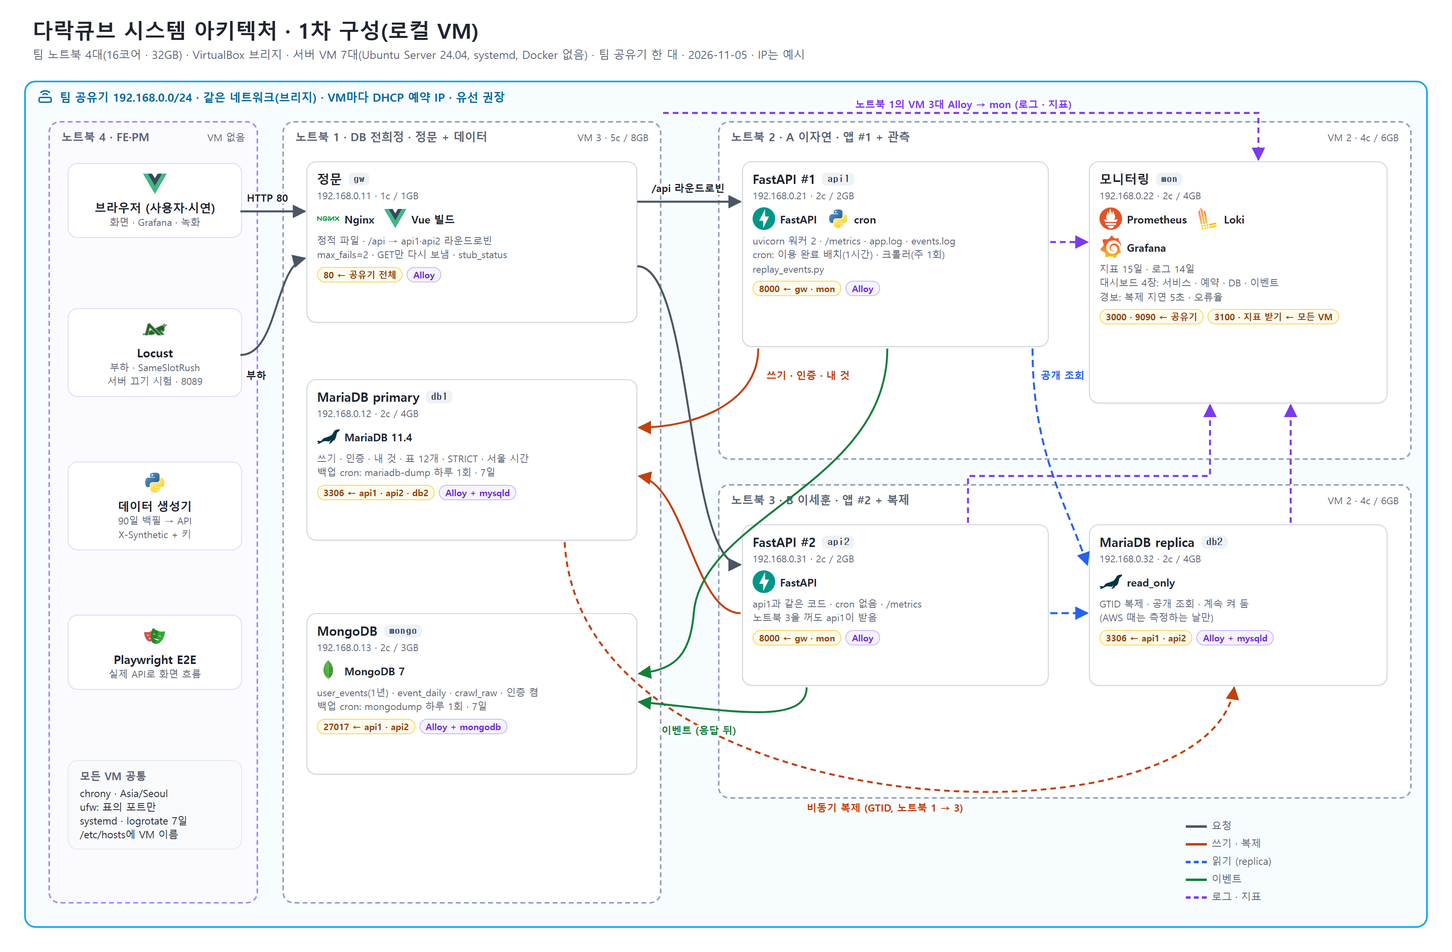
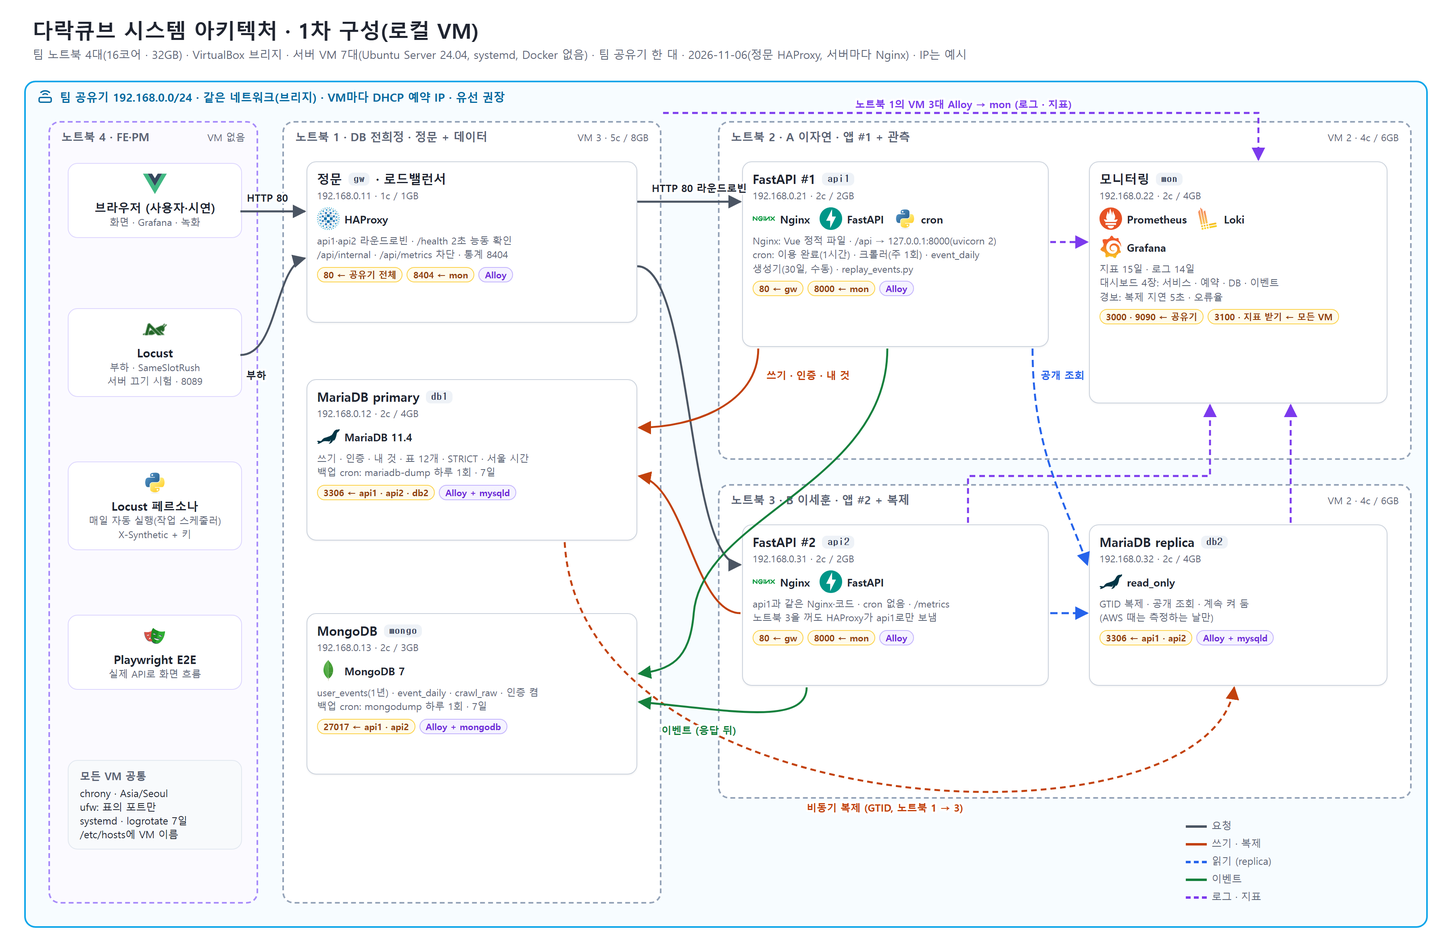
[공동] 정문 구성 B안 확정: 사용자 → HAProxy → 서버마다 Nginx → FastAPI
- STATE 결정 기록: 정문 HAProxy(/health 2초 능동 확인, 내부 경로 차단, 통계 8404), 서버마다 Nginx(정적 파일 + /api → 127.0.0.1:8000)
- 로컬_VM_구성: gw·api1·api2 배치, 방화벽(api 80 ← gw, 8000 ← mon), 4-1절 흐름
- infra/vm 체크리스트: gw HAProxy, api1·api2 Nginx
- 산출물 02·인프라 검토: 정문 설명과 11-06 결정 안내
- AGENTS·STRUCTURE: infra/haproxy/ (B)
- 그림: 아키텍처(정문 HAProxy, 서버마다 Nginx), 비교도 haproxy_compare(draw.io 원본), HAProxy 로고(devicon 2.18.0, MIT)

diff --git a/docs/figures/src/architecture.html b/docs/figures/src/architecture.html
@@ -47,7 +47,7 @@
 </head>
 <body>
   <div class="title">다락큐브 시스템 아키텍처 · 1차 구성(로컬 VM)</div>
-  <div class="sub">팀 노트북 4대(16코어 · 32GB) · VirtualBox 브리지 · 서버 VM 7대(Ubuntu Server 24.04, systemd, Docker 없음) · 팀 공유기 한 대 · 2026-11-05 · IP는 예시</div>
+  <div class="sub">팀 노트북 4대(16코어 · 32GB) · VirtualBox 브리지 · 서버 VM 7대(Ubuntu Server 24.04, systemd, Docker 없음) · 팀 공유기 한 대 · 2026-11-06(정문 HAProxy, 서버마다 Nginx) · IP는 예시</div>
 
   <div class="box router"><div class="box-label">
     <svg viewBox="0 0 24 24" fill="none" stroke="#0369a1" stroke-width="2" aria-hidden="true"><rect x="3" y="13" width="18" height="7" rx="2"/><path d="M7 17h.01M11 17h.01M8 9a6 6 0 0 1 8 0M5 6a10 10 0 0 1 14 0"/></svg>
@@ -57,7 +57,7 @@
   <div class="box lap client" style="left:60px; top:150px; width:260px; height:970px"><div class="box-label">노트북 4 · FE·PM</div><div class="spec">VM 없음</div>
     <div class="tool" style="top:50px"><img src="../../architecture/icons/vuejs.svg" alt=""><b>브라우저 (사용자·시연)</b><span>화면 · Grafana · 녹화</span></div>
     <div class="tool" style="top:230px"><img src="../../architecture/icons/locust.png" alt=""><b>Locust</b><span>부하 · SameSlotRush<br>서버 끄기 시험 · 8089</span></div>
-    <div class="tool" style="top:420px"><img src="../../architecture/icons/python.svg" alt=""><b>데이터 생성기</b><span>90일 백필 → API<br>X-Synthetic + 키</span></div>
+    <div class="tool" style="top:420px"><img src="../../architecture/icons/python.svg" alt=""><b>Locust 페르소나</b><span>매일 자동 실행(작업 스케줄러)<br>X-Synthetic + 키</span></div>
     <div class="tool" style="top:610px"><img src="../../architecture/icons/playwright.svg" alt=""><b>Playwright E2E</b><span>실제 API로 화면 흐름</span></div>
     <div class="panel" style="left:22px; top:790px; width:216px"><h4>모든 VM 공통</h4>chrony · Asia/Seoul<br>ufw: 표의 포트만<br>systemd · logrotate 7일<br>/etc/hosts에 VM 이름</div>
   </div>
@@ -65,10 +65,10 @@
   <!-- 노트북 1 -->
   <div class="box lap" style="left:350px; top:150px; width:470px; height:970px"><div class="box-label">노트북 1 · DB 전희정 · 정문 + 데이터</div><div class="spec">VM 3 · 5c / 8GB</div></div>
   <div class="vm" style="left:380px; top:200px; width:410px; height:200px">
-    <div class="hd">정문 <code>gw</code></div><div class="ip">192.168.0.11 · 1c / 1GB</div>
-    <div class="icons"><div><img src="../../architecture/icons/nginx.svg" alt="">Nginx</div><div><img src="../../architecture/icons/vuejs.svg" alt="">Vue 빌드</div></div>
-    <p>정적 파일 · /api → api1·api2 라운드로빈<br>max_fails=2 · GET만 다시 보냄 · stub_status</p>
-    <div class="chips"><span class="chip fw">80 ← 공유기 전체</span><span class="chip al">Alloy</span></div>
+    <div class="hd">정문 <code>gw</code> · 로드밸런서</div><div class="ip">192.168.0.11 · 1c / 1GB</div>
+    <div class="icons"><div><img src="../../architecture/icons/haproxy.svg" alt="">HAProxy</div></div>
+    <p>api1·api2 라운드로빈 · /health 2초 능동 확인<br>/api/internal · /api/metrics 차단 · 통계 8404</p>
+    <div class="chips"><span class="chip fw">80 ← 공유기 전체</span><span class="chip fw">8404 ← mon</span><span class="chip al">Alloy</span></div>
   </div>
   <div class="vm" style="left:380px; top:470px; width:410px; height:200px">
     <div class="hd">MariaDB primary <code>db1</code></div><div class="ip">192.168.0.12 · 2c / 4GB</div>
@@ -87,9 +87,9 @@
   <div class="box lap" style="left:890px; top:150px; width:860px; height:420px"><div class="box-label">노트북 2 · A 이자연 · 앱 #1 + 관측</div><div class="spec">VM 2 · 4c / 6GB</div></div>
   <div class="vm" style="left:920px; top:200px; width:380px; height:230px">
     <div class="hd">FastAPI #1 <code>api1</code></div><div class="ip">192.168.0.21 · 2c / 2GB</div>
-    <div class="icons"><div><img src="../../architecture/icons/fastapi.svg" alt="">FastAPI</div><div><img src="../../architecture/icons/python.svg" alt="">cron</div></div>
-    <p>uvicorn 워커 2 · /metrics · app.log · events.log<br>cron: 이용 완료 배치(1시간) · 크롤러(주 1회)<br>replay_events.py</p>
-    <div class="chips"><span class="chip fw">8000 ← gw · mon</span><span class="chip al">Alloy</span></div>
+    <div class="icons"><div><img src="../../architecture/icons/nginx.svg" alt="">Nginx</div><div><img src="../../architecture/icons/fastapi.svg" alt="">FastAPI</div><div><img src="../../architecture/icons/python.svg" alt="">cron</div></div>
+    <p>Nginx: Vue 정적 파일 · /api → 127.0.0.1:8000(uvicorn 2)<br>cron: 이용 완료(1시간) · 크롤러(주 1회) · event_daily<br>생성기(30일, 수동) · replay_events.py</p>
+    <div class="chips"><span class="chip fw">80 ← gw</span><span class="chip fw">8000 ← mon</span><span class="chip al">Alloy</span></div>
   </div>
   <div class="vm" style="left:1350px; top:200px; width:370px; height:300px">
     <div class="hd">모니터링 <code>mon</code></div><div class="ip">192.168.0.22 · 2c / 4GB</div>
@@ -103,9 +103,9 @@
   <div class="box lap" style="left:890px; top:600px; width:860px; height:390px"><div class="box-label">노트북 3 · B 이세훈 · 앱 #2 + 복제</div><div class="spec">VM 2 · 4c / 6GB</div></div>
   <div class="vm" style="left:920px; top:650px; width:380px; height:200px">
     <div class="hd">FastAPI #2 <code>api2</code></div><div class="ip">192.168.0.31 · 2c / 2GB</div>
-    <div class="icons"><div><img src="../../architecture/icons/fastapi.svg" alt="">FastAPI</div></div>
-    <p>api1과 같은 코드 · cron 없음 · /metrics<br>노트북 3을 꺼도 api1이 받음</p>
-    <div class="chips"><span class="chip fw">8000 ← gw · mon</span><span class="chip al">Alloy</span></div>
+    <div class="icons"><div><img src="../../architecture/icons/nginx.svg" alt="">Nginx</div><div><img src="../../architecture/icons/fastapi.svg" alt="">FastAPI</div></div>
+    <p>api1과 같은 Nginx·코드 · cron 없음 · /metrics<br>노트북 3을 꺼도 HAProxy가 api1로만 보냄</p>
+    <div class="chips"><span class="chip fw">80 ← gw</span><span class="chip fw">8000 ← mon</span><span class="chip al">Alloy</span></div>
   </div>
   <div class="vm" style="left:1350px; top:650px; width:370px; height:200px">
     <div class="hd">MariaDB replica <code>db2</code></div><div class="ip">192.168.0.32 · 2c / 4GB</div>
@@ -148,7 +148,7 @@
     </g>
     <text class="lbl" x="306" y="250">HTTP 80</text>
     <text class="lbl" x="305" y="470">부하</text>
-    <text class="lbl" x="808" y="238">/api 라운드로빈</text>
+    <text class="lbl" x="808" y="238">HTTP 80 라운드로빈</text>
     <text class="lbl" x="950" y="470" style="fill:#c2410c">쓰기 · 인증 · 내 것</text>
     <text class="lbl" x="1290" y="470" style="fill:#2563eb">공개 조회</text>
     <text class="lbl" x="1000" y="1006" style="fill:#c2410c">비동기 복제 (GTID, 노트북 1 → 3)</text>

diff --git a/STATE.md b/STATE.md
@@ -57,6 +57,7 @@
 | 11-05 | 로그아웃: 프론트가 헤더 사용자 메뉴·내 메뉴에서 토큰을 지우고, 서버 `POST /auth/logout`(유효 토큰 확인 → 204)도 둠(11-03 "로그아웃 API 없음"을 바꿈). 토큰 폐기 목록은 없음 | PM 결정 · #32·#33·#34, `산출물_01` F-02 |
 | 11-05 | 1차 수집원은 스페이스클라우드·쉐어잇 2곳. 속성 기반 시연용 공간 15~20개를 목표로 선별하되, 30개 목표에서 최종 검토 후 부족한 공간은 생성기(`source_site=synthetic`)로 `/internal/venues`에 등록. 과거 사용자 행동 데이터는 우선 30일분 생성하고 `is_synthetic`으로 실제 로그와 분리. 루북·스파크플러스는 1차 제외, 사진안은 미확정 | 사용자 결정 · `docs/데이터_수집_명세.md` |
 | 11-05 | 데이터 작업 경계(#38): ① 생성기의 예약·칸·결제는 B 저장 로직 재사용(한 트랜잭션, 백필 경로에만 과거 시각), 회원·후기는 생성기가 SQL로 넣되 비밀번호는 A bcrypt 함수 ② 생성기·크롤러는 api1에서 실행, A가 키·접속 정보·cron 설치, 노트북 4는 API·화면·부하 시험 ③ 과거 이벤트는 MongoDB 직접 적재·분석은 `event_daily`, Loki는 실제 로그, 직접 적재분은 API 전달 성공률에서 제외 ④ F-62(A)와 #19 생성기(DB)는 따로 관리 ⑤ 속성 기반 15~20개 + 생성으로 총 30개, 주간 수집은 보충·0건 허용 ⑥ 과거 30일·회원 풀 1,000명(100명 먼저 검증, 11-07 확정). 미정: `/internal/venues` 제공 시각(B), 쉐어잇 표본 위치(DB), 탈퇴·동시 예약 처리(A·B), Grafana의 MongoDB 연결(A·DB) | PM 결정 · 이슈 #38 |
+| 11-06 | **정문 구성 B안**: 사용자 → `gw` HAProxy(:80, api1·api2 라운드로빈, `/health` 2초 능동 확인, `/api/internal`·`/api/metrics` 차단, 통계 8404) → 서버마다 Nginx(:80, Vue 정적 파일 + `/api` → `127.0.0.1:8000`) → FastAPI. A안(Nginx 뒤 HAProxy)은 프록시가 두 겹이고 `gw`에 몰려 확장이 막혀 뺌. `gw` 단일 장애점은 발표 범위에서 허용(실서비스는 HAProxy 2대 + keepalived) | PM 결정 · `docs/figures/haproxy_compare.png`, `로컬_VM_구성.md` |
 | 10-30 | 스터디룸 → 공간대여로 확장, 유형 5개(스터디룸·스튜디오·카페·영화관·파티룸, 11-03에 영화관 → 강의실), 전국 | 회의 · `docs/공간대여_01` |
 | 10-30 | 결제는 '확정 = 결제 완료'인 모의 결제 | 회의 |
 | 10-30 | 예약은 1시간 칸, 중복은 `reservation_slots` 기본키로 DB가 차단 | `docs/공간대여_02` |
@@ -167,6 +168,7 @@ A1~A4는 11-03에 확정했고, **A5~A8은 추후 확정**으로 미뤘다(11-03
 
 ## 최근 변경 (최신이 위)
 
+- 11-06 · 공동 · 정문 구성 B안 확정(HAProxy 정문 → 서버마다 Nginx → FastAPI): 결정 기록, `로컬_VM_구성`(배치·방화벽·흐름), `infra/vm` 체크리스트, 산출물 02·인프라 검토 안내, 아키텍처 그림(HAProxy 로고 devicon 2.18.0), 비교 그림 `haproxy_compare`(draw.io 원본) 반영. `infra/haproxy`·`infra/nginx` 설정은 B, 설치는 노트북 주인
 - 11-05 · B · #43 PM 제안 및 B 동의에 따라 최신 develop(87de174, #41·#42 병합)에서 feat/B-F-51-review-context 생성·기준 커밋 확인 후 구현. review_context_query(*, active_only=True)가 예약·공간·유형을 조인한 4열 Select를 반환하며 예약 상태·후기 작성 자격은 거르지 않음. 기본값은 비활성 공간 제외, False는 포함. A 코드·main.py·DDL·API·이벤트 변경 없이 루트 약속·A/B 명세 3절·리포지토리/테스트 안내·구조에 계약 반영. pro_1·격리된 loopback MariaDB 11.4.13의 spacecube_test(0001·seed)에서 계약 14건 추가 포함 예약 의존성 43건·전체 pytest 303건 통과. verify.ps1 구성요소를 설치된 Miniforge pro_1·Node 경로로 실행해 Ruff 린트/포맷 및 프론트 린트·색 검사·단위 55건·빌드 통과. Starlette 사용 중단 예정·pytest 캐시 경로 권한·기존 FE 조건문 경고 각 1건. 테스트 데이터 6개 표 모두 0건 확인, 임시 DB 종료·정리. 후기 목록 HTTP·실제 replica·E2E·DDL 전용 검증은 이번에 실행하지 않았으며 A 직접 import 연결 후 통합 검증 예정. 커밋·푸시·PR은 아직 하지 않음.
 
 - 11-05 · B · 사용자 승인에 따라 feat/FastAPI-B-internal-venues로 이름을 맞추고 원격 푸시, develop 대상 PR #42 생성. 본문에 Refs #38·#10·#19와 구현 범위·검증 결과·api1 후속 배포를 명시하고 A 담당 naturedevworks에게 리뷰 요청. 관련 이슈의 나머지 작업은 열어 두며 예약 후속 기능은 보류. 코드 변경 없이 진행 기록만 갱신, PR CI 결과 확인 대기.

diff --git a/docs/로컬_VM_구성.md b/docs/로컬_VM_구성.md
@@ -19,12 +19,12 @@
 
 | 노트북 (주인) | VM | vCPU / 메모리 / 디스크 | 올리는 것 | 열 포트 ← 받는 곳 |
 | --- | --- | --- | --- | --- |
-| **1** (DB 전희정) | `gw` 정문 | 1c / 1GB / 10GB | Nginx(Vue 빌드 정적 파일, `/api` → api1·api2 라운드로빈), `stub_status` + nginx exporter, Alloy | 80 ← 공유기 전체 |
+| **1** (DB 전희정) | `gw` 정문 | 1c / 1GB / 10GB | **HAProxy**(80 → api1·api2 라운드로빈, `/health` 2초 능동 확인, `/api/internal`·`/api/metrics` 차단, 통계·지표 8404), Alloy | 80 ← 공유기 전체, 8404 ← mon |
 | | `db1` MariaDB primary | 2c / 4GB / 20GB | MariaDB 11.4(STRICT `sql_mode`, `+09:00`, utf8mb4), 백업 cron, mysqld exporter, Alloy | 3306 ← api1·api2·db2 |
 | | `mongo` | 2c / 3GB / 20GB | MongoDB 7(인증 켬, `docs/db/mongo_init.js`), 백업 cron, mongodb exporter, Alloy | 27017 ← api1·api2 |
-| **2** (A 이자연) | `api1` FastAPI #1 | 2c / 2GB / 15GB | FastAPI(uvicorn 워커 2), cron: 이용 완료 배치(1시간)·크롤러(주 1회)·`replay_events.py`·`event_daily` 집계(매일 새벽), 데이터 생성기(과거 30일 백필, 수동 실행), `app.log`·`events.log`, `/metrics`, Alloy | 8000 ← gw·mon |
+| **2** (A 이자연) | `api1` FastAPI #1 | 2c / 2GB / 15GB | **Nginx**(80: Vue 정적 파일 + `/api` → `127.0.0.1:8000`) + FastAPI(uvicorn 워커 2), cron: 이용 완료 배치(1시간)·크롤러(주 1회)·`replay_events.py`·`event_daily` 집계(매일 새벽), 데이터 생성기(과거 30일 백필, 수동 실행), `app.log`·`events.log`, `/metrics`, nginx exporter, Alloy | 80 ← gw, 8000 ← mon(지표) |
 | | `mon` 모니터링 | 2c / 4GB / 30GB | Prometheus(15일), Loki(14일), Grafana(대시보드 4장 + 경보) | 3000·9090 ← 공유기, 3100·지표 받기 ← 모든 VM |
-| **3** (B 이세훈) | `api2` FastAPI #2 | 2c / 2GB / 15GB | api1과 같은 코드(cron 없음), `/metrics`, Alloy | 8000 ← gw·mon |
+| **3** (B 이세훈) | `api2` FastAPI #2 | 2c / 2GB / 15GB | api1과 같은 Nginx·코드(cron 없음), `/metrics`, nginx exporter, Alloy | 80 ← gw, 8000 ← mon(지표) |
 | | `db2` MariaDB replica | 2c / 4GB / 20GB | MariaDB replica(`read_only`, GTID 복제), mysqld exporter, Alloy | 3306 ← api1·api2 |
 | **4** (FE·PM 노진산) | VM 없음 | — | Locust(부하·`SameSlotRush`·서버 끄기 시험), Playwright E2E(실제 API), 발표 브라우저·녹화 | Locust 웹 8089 ← 노트북 4 안에서만 |
 
@@ -62,12 +62,23 @@
 | VM | 허용 |
 | --- | --- |
 | 전부 | 22 ← 팀 노트북 4대의 IP만, 나머지 들어오는 것 거부 |
-| `gw` | 80 ← 공유기 대역 |
-| `api1`·`api2` | 8000 ← `gw`, `mon` |
+| `gw` | 80 ← 공유기 대역, 8404 ← `mon` |
+| `api1`·`api2` | 80 ← `gw`, 8000 ← `mon`(지표만) |
 | `db1` | 3306 ← `api1`, `api2`, `db2` |
 | `db2` | 3306 ← `api1`, `api2` |
 | `mongo` | 27017 ← `api1`, `api2` |
 | `mon` | 3000·9090 ← 공유기 대역, 3100·9090 ← 모든 VM(Alloy) |
+
+## 4-1. 정문 구성 (11-06 B안)
+
+```
+브라우저 ─▶ gw: HAProxy :80 ─▶ api1: Nginx :80 ─▶ FastAPI 127.0.0.1:8000
+                            └▶ api2: Nginx :80 ─▶ FastAPI 127.0.0.1:8000
+```
+
+- HAProxy가 진입과 분산을 맡고, `GET /health`를 2초마다 확인해 2번 실패한 서버를 먼저 뺍니다(무료 Nginx는 요청이 실패해야 뺌). 결제(POST)는 다시 보내지 않습니다.
+- 서버마다 Nginx가 화면 파일과 `/api` 전달을 맡아, 서버를 늘리면 HAProxy에 한 줄 더해 확장합니다.
+- `gw` 한 대는 단일 장애점으로 남습니다(발표 범위에서 허용). 비교: [`figures/haproxy_compare.png`](figures/haproxy_compare.png), 원본 `figures/src/haproxy_compare.drawio`.
 
 ## 5. 11-05 결정과 바뀌는 점
 

diff --git a/infra/vm/README.md b/infra/vm/README.md
@@ -18,12 +18,13 @@
 - [ ] `db1`: `0001_init.sql` → `seed.sql` 적용, `db/tests/check_ddl.py`를 `CHECK_DB_URL`로 한 번 돌려 확인(`spacecube_test`)
 - [ ] `db1`: 백업 cron(하루 1회 `mariadb-dump --single-transaction`, 7개 보관)
 - [ ] `mongo`: MongoDB 7.0, 인증 켬, WiredTiger 캐시 1GB, `docs/db/mongo_init.js`, `db/tests/check_mongo_init.js`, 백업 cron(`mongodump`, 7개)
-- [ ] `gw`: Nginx, Vue 빌드(`frontend`에서 `npm run build` → `dist/`) 복사, `infra/nginx/README.md` 설정(upstream `api1:8000`·`api2:8000`, `max_fails=2`), `stub_status` + nginx exporter
+- [ ] `gw`: HAProxy(apt), `infra/haproxy/README.md` 설정(80 → `api1:80`·`api2:80` 라운드로빈, `/health` 확인 `inter 2s fall 2 rise 2`, `/api/internal`·`/api/metrics` 차단, 통계·Prometheus 지표 8404), Alloy가 8404 수집 (11-06 B안)
 - [ ] 세 VM 모두 Alloy(로그 → `mon:3100`, 지표 → `mon:9090`), `ufw` 규칙
 
 ## 2. 노트북 2 (A 이자연)
 
 - [ ] `api1`: Python 3.12 venv + `environment.yml`의 pip 버전, `backend/.env`(`DB_WRITE_URL=…@db1`, `DB_READ_URL=…@db2`, `MONGO_URL=…@mongo`, `SERVER_NAME=api-1`, `SYNTHETIC_API_KEY` 등), uvicorn systemd(`--workers 2`, 8000)
+- [ ] `api1`: Nginx(apt), Vue 빌드(`frontend`에서 `npm run build` → `dist/`) 복사, `infra/nginx/README.md` 서버용 설정(정적 파일 + `/api` → `127.0.0.1:8000`), `stub_status` + nginx exporter (11-06 B안)
 - [ ] `api1`: cron — 이용 완료 배치(1시간), 크롤러(주 1회, `crawler/AGENTS.md` 규칙), `replay_events.py`, `event_daily` 집계(매일 새벽)
 - [ ] `api1`: 크롤러·생성기 실행 환경과 키(`INTERNAL_API_KEY`, DB·MongoDB 접속 정보)는 A가 설치(11-05 #38). 생성기 과거 30일 백필은 수동으로 한 번, 먼저 회원 100명으로 검증
 - [ ] `mon`: Prometheus(15일, 원격 쓰기 받기 켬), Loki(14일), Grafana(3000) + 대시보드 4장(서비스·예약·DB·이벤트) + 경보(복제 지연 5초, 오류율)
@@ -31,7 +32,7 @@
 
 ## 3. 노트북 3 (B 이세훈)
 
-- [ ] `api2`: `api1`과 같은 코드·설정(`SERVER_NAME=api-2`, cron 없음)
+- [ ] `api2`: `api1`과 같은 Nginx·코드·설정(`SERVER_NAME=api-2`, cron 없음)
 - [ ] `db2`: MariaDB 11.4, `server_id=2`, `read_only=ON`, GTID 복제(`CHANGE MASTER TO MASTER_HOST='db1', MASTER_USE_GTID=slave_pos`), `SHOW SLAVE STATUS`에서 지연 확인
 - [ ] 두 VM 모두 Alloy(mysqld exporter 포함), `ufw` 규칙
 

diff --git a/docs/산출물_02_시스템아키텍처_흐름도.md b/docs/산출물_02_시스템아키텍처_흐름도.md
@@ -2,7 +2,7 @@
 
 2026-11-03 확정안 · 작성 노진산 · 기준: `산출물_04_DB명세서.md`, `AWS_네트워크_설계.md`, 11-03 회의
 
-사용자 요청은 Nginx 한 대가 받아 FastAPI 2대로 나눠 보냅니다. **쓰기와 '내 것' 조회는 MariaDB primary, 공개 조회는 replica**로 보내고, 사용자 이벤트는 **MongoDB**에 쌓습니다. 서버 로그와 이벤트 로그는 **Loki**로, 지표는 **Prometheus**로 모아 **Grafana**에서 봅니다. 크롤러는 FastAPI #1에서 주 1회 돕니다. 팀원마다 자기 AWS 계정에 같은 구성을 올립니다(팀원 n번 = VPC `10.1n.0.0/16`).
+사용자 요청은 정문 **HAProxy**가 받아 서버 2대(각각 **Nginx + FastAPI**)로 나눠 보냅니다(11-06 B안). HAProxy는 `/health`로 서버 상태를 미리 확인하고, 서버마다 Nginx가 화면 파일과 `/api`를 맡습니다. **쓰기와 '내 것' 조회는 MariaDB primary, 공개 조회는 replica**로 보내고, 사용자 이벤트는 **MongoDB**에 쌓습니다. 서버 로그와 이벤트 로그는 **Loki**로, 지표는 **Prometheus**로 모아 **Grafana**에서 봅니다. 크롤러는 FastAPI #1에서 주 1회 돕니다. 팀원마다 자기 AWS 계정에 같은 구성을 올립니다(팀원 n번 = VPC `10.1n.0.0/16`).
 
 **1차 구성(로컬 VM, 11-05):** 팀 노트북 4대에 VM 7대(정문 `gw`, FastAPI `api1`·`api2`, MariaDB `db1`·`db2`, MongoDB `mongo`, 모니터링 `mon`)를 만들어 같은 공유기에 브리지로 붙입니다. 역할은 아래 확장안과 같고, AWS 서브넷·보안 그룹 대신 노트북 분리와 `ufw`를 씁니다. 배치·주소·방화벽·설치 순서: `로컬_VM_구성.md`, `infra/vm/README.md`.
 

diff --git a/docs/figures/README.md b/docs/figures/README.md
@@ -5,7 +5,8 @@
 | 그림 | 원본 | 쓰는 문서 |
 | --- | --- | --- |
 | `erd_mariadb.png` / `.svg` | `src/erd_mariadb.mmd` | `산출물_04_DB명세서.md` |
-| `architecture.png` | `src/architecture.html` (아이콘 `../architecture/icons/`) — 1차 구성(로컬 VM: 노트북 4대 · VM 7대, 11-05) | `README.md`, `산출물_02_시스템아키텍처_흐름도.md`, `로컬_VM_구성.md` |
+| `architecture.png` | `src/architecture.html` (아이콘 `../architecture/icons/`) — 1차 구성(로컬 VM: 노트북 4대 · VM 7대, 11-05 · 정문 HAProxy, 서버마다 Nginx 11-06) | `README.md`, `산출물_02_시스템아키텍처_흐름도.md`, `로컬_VM_구성.md` |
+| `haproxy_compare.png` | `src/haproxy_compare.drawio` — 정문 구성 A안·B안 비교(11-06 B안 확정). draw.io 데스크톱으로 `draw.io -x -f png -s 2 -b 16 -o docs/figures/haproxy_compare.png docs/figures/src/haproxy_compare.drawio` | `로컬_VM_구성.md`, `인프라_트래픽_안정성_검토.md` |
 | `architecture_aws.png` | `src/architecture_aws.html` — AWS 참고안(C안, EC2 3대 + RDS, 11-04) | `산출물_02_시스템아키텍처_흐름도.md` |
 | `architecture_expanded.png` | `src/architecture_expanded.html` — 확장안(EC2 5대 + RDS 2대 + 모니터링 EC2) | `산출물_02_시스템아키텍처_흐름도.md` 5·6절 |
 | `service_screen_map.png` | `src/service_screen_map.mmd` | `산출물_03_서비스흐름도.md` |

diff --git a/docs/인프라_트래픽_안정성_검토.md b/docs/인프라_트래픽_안정성_검토.md
@@ -1,5 +1,7 @@
 # 인프라·트래픽·안정성 검토 (타당성 조사)
 
+> **11-06 결정(①):** 로컬 VM에서는 ALB를 쓸 수 없으므로 **정문에 HAProxy를 두고 서버마다 Nginx**를 둡니다(B안: 사용자 → HAProxy → Nginx → FastAPI). 아래 1절의 "ALB + 앱 서버마다 Nginx" 권장안에서 ALB 자리를 HAProxy가 맡는 구조입니다. 비교 그림: [`figures/haproxy_compare.png`](figures/haproxy_compare.png)
+
 > **11-05 결정:** 1차 배포·측정·시연은 AWS 대신 **팀 노트북 4대의 VM 7대**로 합니다([로컬 VM 구성](로컬_VM_구성.md)). 이 문서의 AWS 내용은 비교용 참고안입니다.
 
 2026-11-03 · 공동 · 질문: ① HAProxy를 둬야 하나 ② Playwright 가상 사용자를 생각하면 있는 게 나은가 ③ 동시 접속자를 버티려면 ④ AWS 기능까지 쓰면 어떻게 안정적으로 만드나 ⑤ 실제 회사라면 어느 팀이 무엇을 보나 · 상태: **권장안, 결정 대기** · 방향(11-03): **먼저 지금 설계로 띄우고 재 본 뒤, 기준을 넘는 것만 더한다**(1-1절)

diff --git a/STRUCTURE.md b/STRUCTURE.md
@@ -103,7 +103,8 @@ Pro_1/
 │
 ├─ infra/
 │  ├─ local/                  [DB] docker compose: MariaDB 11.4(3308) + MongoDB 7, 첫 실행 때 0001·seed·mongo_init 자동 (11-04)
-│  ├─ nginx/                  [B] spacecube.conf (README에 초안)
+│  ├─ haproxy/                [B] 정문 haproxy.cfg: api1·api2 분산, /health 확인 (11-06 B안, 예정)
+│  ├─ nginx/                  [B] 서버마다: 정적 파일 + /api → 127.0.0.1:8000 (11-06 B안, README에 초안)
 │  ├─ monitoring/             [A] docker-compose, alloy.config, grafana/dashboards (예정)
 │  ├─ vm/                     [공동] 로컬 VM 7대 설치 체크리스트 (11-05, 1차 배포)
 │  └─ aws/                    [공동] 팀원별 AWS 체크리스트 (참고안)
